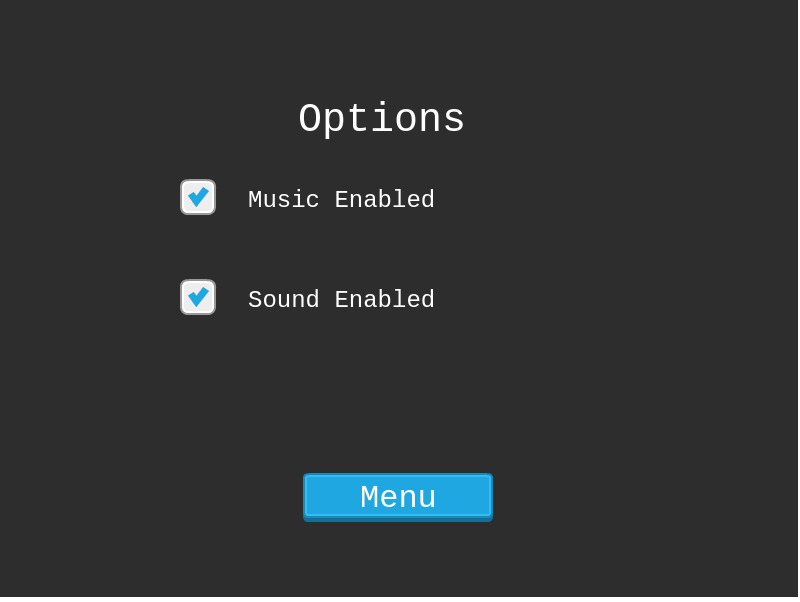
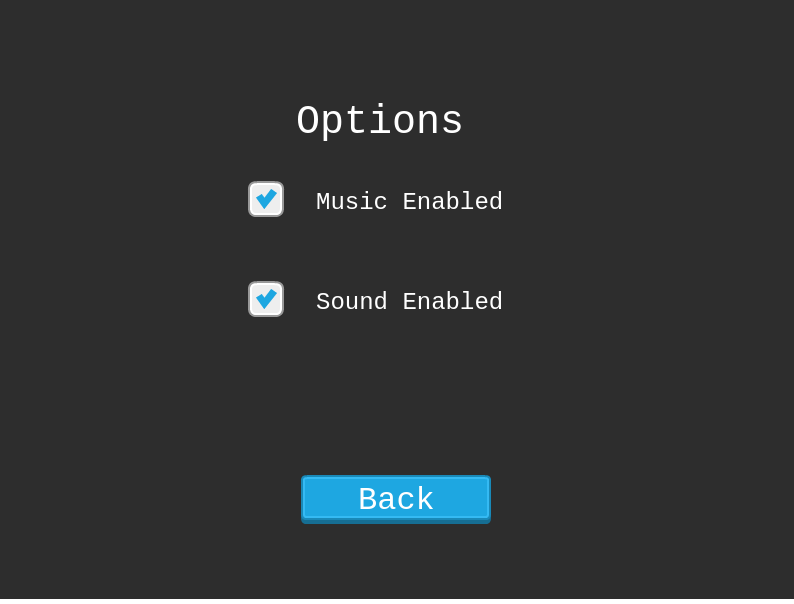
Fix eslint errors Update the README.md file

diff --git a/src/Scenes/InstructionScene.js b/src/Scenes/InstructionScene.js
@@ -9,7 +9,7 @@ export default class InstructionScene extends Phaser.Scene {
     const width = this.game.config.width * 0.5;
 
     this.title = this.add.text(
-      300,
+      270,
       80,
       'HOW TO PLAY',
       {
@@ -42,7 +42,7 @@ export default class InstructionScene extends Phaser.Scene {
     );
 
     this.instruction3 = this.add.text(
-      300,
+      270,
       300,
       'Ready to Play?',
       {
@@ -53,14 +53,14 @@ export default class InstructionScene extends Phaser.Scene {
     );
 
     this.gameButton = this.add.sprite(width - 100, 400, 'blueButton1').setInteractive();
-    this.gameText = this.add.text(this, 0, 'Play', 32);
+    this.gameText = this.add.text(this, 0, 'Play', { fontSize: 32 });
     this.centerButtonText(this.gameText, this.gameButton);
     this.gameButton.on('pointerdown', () => {
       this.scene.start('Game');
     });
 
     this.backButton = this.add.sprite(width + 100, 400, 'blueButton1').setInteractive();
-    this.backText = this.add.text(this, 0, 'Back', 32);
+    this.backText = this.add.text(this, 0, 'Back', { fontSize: 32 });
     this.centerButtonText(this.backText, this.backButton);
     this.backButton.on('pointerdown', () => {
       this.game.sound.stopAll();

diff --git a/src/Scenes/OptionsScene.js b/src/Scenes/OptionsScene.js
@@ -10,11 +10,11 @@ export default class OptionsScene extends Phaser.Scene {
     this.model = this.sys.game.globals.model;
 
     this.text = this.add.text(300, 100, 'Options', { fontSize: 40 });
-    this.musicButton = this.add.image(200, 200, 'checkedBox');
-    this.musicText = this.add.text(250, 190, 'Music Enabled', { fontSize: 24 });
+    this.musicButton = this.add.image(270, 200, 'checkedBox');
+    this.musicText = this.add.text(320, 190, 'Music Enabled', { fontSize: 24 });
 
-    this.soundButton = this.add.image(200, 300, 'checkedBox');
-    this.soundText = this.add.text(250, 290, 'Sound Enabled', { fontSize: 24 });
+    this.soundButton = this.add.image(270, 300, 'checkedBox');
+    this.soundText = this.add.text(320, 290, 'Sound Enabled', { fontSize: 24 });
 
     this.musicButton.setInteractive();
     this.soundButton.setInteractive();

diff --git a/src/Scenes/CreditsScene.js b/src/Scenes/CreditsScene.js
@@ -39,11 +39,11 @@ export default class CreditsScene extends Phaser.Scene {
     );
     Phaser.Display.Align.In.Center(this.creditsText, this.zone);
     Phaser.Display.Align.In.Center(this.madeByText, this.zone);
-    //Phaser.Display.Align.In.Center(this.bgByText, this.zone);
+    // Phaser.Display.Align.In.Center(this.bgByText, this.zone);
     Phaser.Display.Align.In.Center(this.musicByText, this.zone);
 
     this.madeByText.setY(1000);
-    //this.bgByText.setY(1000);
+    // this.bgByText.setY(1000);
     this.musicByText.setY(1000);
 
     this.creditsTween = this.tweens.add({

diff --git a/src/Scenes/InputScene.js b/src/Scenes/InputScene.js
@@ -30,10 +30,6 @@ export default class InputScene extends Phaser.Scene {
     nameInput.type = 'text';
     nameInput.id = 'username';
 
-    document.querySelector('#game-play').style.position = 'absolute';
-    document.querySelector('#game-play').style.top = '200px';
-    document.querySelector('#game-play').style.left = '270px';
-
     document.querySelector('#game-play').appendChild(nameInput);
 
     this.alertMsg = this.add.text(250, 400, '', {

diff --git a/src/js/Entity.js b/src/js/Entity.js
@@ -29,5 +29,4 @@ export default class Entity extends Phaser.GameObjects.Sprite {
       this.setData('isDead', true);
     }
   }
-
 }

diff --git a/src/assets/css/style.css b/src/assets/css/style.css
@@ -8,5 +8,7 @@
 }
 
 #game-play {
-  border: 1px solid orange;
+  position: absolute;
+  top: 200px;
+  left: 270px;
 }
